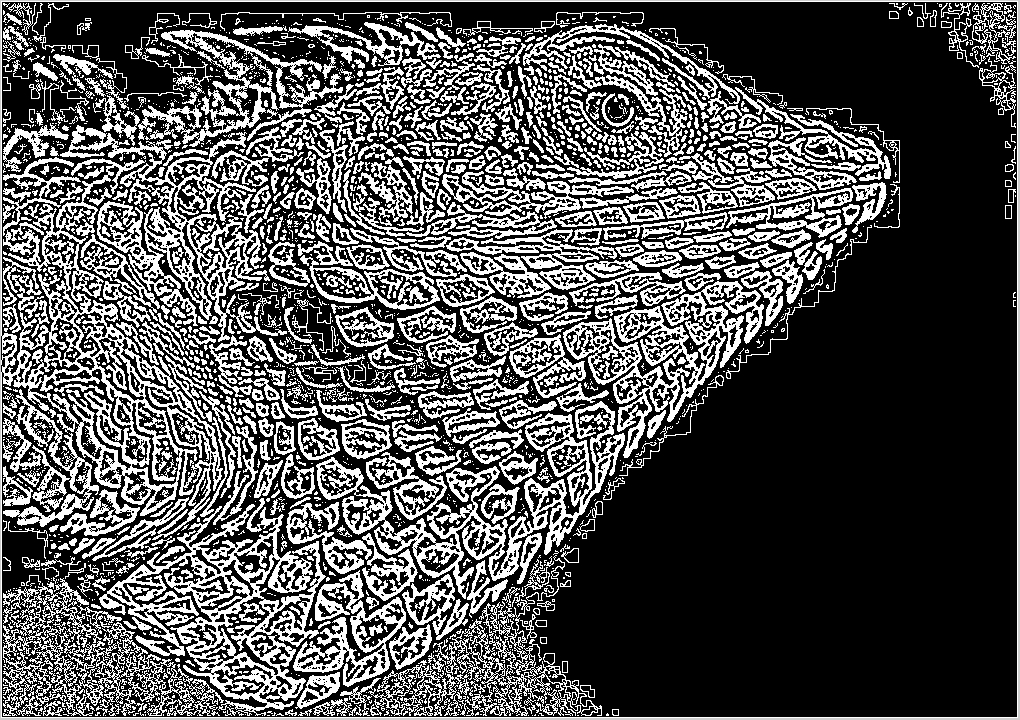
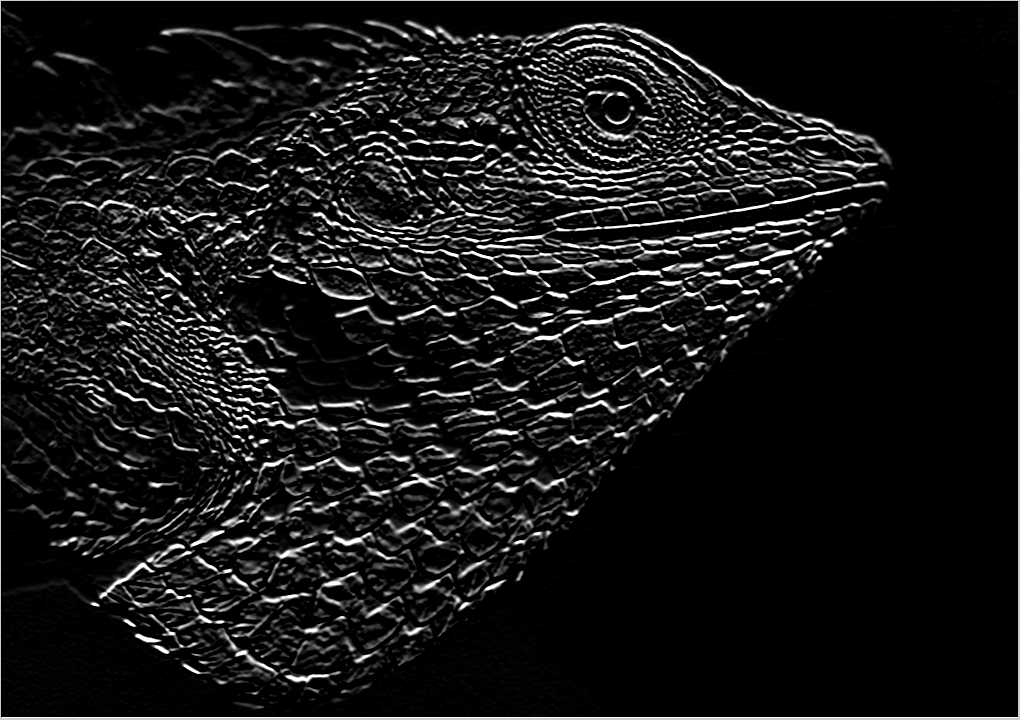
Working sobel operators

diff --git a/edge_detection_algorithms.h b/edge_detection_algorithms.h
@@ -5,23 +5,44 @@
 
 uint8_t calculate_mask(uint8_t** input, size_t x, size_t y, struct Mask mask) {
     mask.mask_radius = (size_t)(mask.mask_size / 2);
-    size_t sum = 0;
+    long long sum = 0;
+    
+    
+    //printf("%d %d image\n", x, y);
+    for (size_t i = y - mask.mask_radius; i <= y + mask.mask_radius; ++i) {
+        for (size_t j = x - mask.mask_radius; j <= x + mask.mask_radius; ++j) {
+            //printf("%d ", input[i][j]);
+        }
+        //printf("\n");
+    }
 
+    //printf("values\n");
     for (size_t i = y - mask.mask_radius; i <= y + mask.mask_radius; ++i) {
         for (size_t j = x - mask.mask_radius; j <= x + mask.mask_radius; ++j) {
 
             uint8_t image_val = input[i][j];
-
+            
             int mask_val = mask.mask[i - y + mask.mask_radius][j - x + mask.mask_radius];
 
             sum += (long long)image_val * mask_val;
-        }
-    }
 
-    sum /= 400;
+            //printf("%d ", (long long)image_val * mask_val);
+        }
+        //printf("\n");
+    }
+    //printf("suma %d\n", sum);
+    //printf("uint8 %d\n", (uint8_t) sum);
+
+    //printf("\n");
+
+    //sum /= 1200.0;
 
     if (sum < 0) sum = 0;
     if (sum > 255) sum = 255;
+    //printf("suma %d\n", sum);
+    //printf("uint8 %d\n", (uint8_t)sum);
+    //printf("\n");
+
     return (uint8_t)sum;
 }
 
@@ -70,14 +91,16 @@ void gaussian_blur(struct ImageMatrix* mat) {
     struct Masks mo = create_masks();
     struct Mask mask = mo.masks[0];
 
+
+
     if (mat->width > 0 && mat->height > 0) {
         uint8_t** gaussian_blur = malloc(mat->height * sizeof(*gaussian_blur));
         for (size_t i = 0; i < mat->height; i++) {
             gaussian_blur[i] = malloc(mat->width * sizeof(gaussian_blur[0]));
         }
 
-        for (size_t i = mask.mask_radius; i < mat->height - mask.mask_radius - 1; i++) {
-            for (size_t j = mask.mask_radius; j < mat->width - mask.mask_radius - 1; j++) {
+        for (size_t i = mask.mask_radius; i < mat->height - mask.mask_radius; ++i) {
+            for (size_t j = mask.mask_radius; j < mat->width - mask.mask_radius; ++j) {
 
                 uint8_t pixel_value = calculate_gaussian_mask(mat->matrix, j, i, mask);
 
@@ -88,4 +111,65 @@ void gaussian_blur(struct ImageMatrix* mat) {
 
         mat->matrix = gaussian_blur;
     }
+}
+
+void sobel_horizontal(struct ImageMatrix* mat) {
+    struct Masks mo = create_masks();
+    struct Mask mask = mo.masks[2];
+
+    uint8_t** gradient_strength = malloc(mat->height * sizeof(*gradient_strength));
+    for (size_t i = 0; i < mat->height; i++) {
+        gradient_strength[i] = malloc(mat->width * sizeof(gradient_strength[0]));
+    }
+
+    for (size_t i = mask.mask_radius; i < mat->height - mask.mask_radius - 1; i++) {
+        for (size_t j = mask.mask_radius; j < mat->width - mask.mask_radius - 1; j++) {
+
+            uint8_t pixel_value = calculate_mask(mat->matrix, j, i, mask);
+
+            gradient_strength[i][j] = pixel_value;
+
+        }
+    }
+
+    mat->matrix = gradient_strength;
+}
+
+void sobel_vertical(struct ImageMatrix* mat) {
+    struct Masks mo = create_masks();
+    struct Mask mask = mo.masks[1];
+
+    uint8_t** gradient_strength = malloc(mat->height * sizeof(*gradient_strength));
+    for (size_t i = 0; i < mat->height; i++) {
+        gradient_strength[i] = malloc(mat->width * sizeof(gradient_strength[0]));
+    }
+
+    for (size_t i = mask.mask_radius; i < mat->height - mask.mask_radius - 1; i++) {
+        for (size_t j = mask.mask_radius; j < mat->width - mask.mask_radius - 1; j++) {
+
+            uint8_t pixel_value = calculate_mask(mat->matrix, j, i, mask);
+
+            gradient_strength[i][j] = pixel_value;
+
+        }
+    }
+
+    mat->matrix = gradient_strength;
+}
+
+void detect_edges(struct ImageMatrix* mat) {
+
+    uint8_t** output = malloc(mat->height * sizeof(*output));
+    for (size_t i = 0; i < mat->height; i++) {
+        output[i] = malloc(mat->width * sizeof(output[0]));
+    }
+
+    struct ImageMatrix gradient_vertical = copy_matrix(mat);
+    struct ImageMatrix gradient_horizontal = copy_matrix(mat);
+
+    sobel_vertical(&gradient_vertical);
+    sobel_horizontal(&gradient_horizontal);
+
+    
+
 }

diff --git a/edge_detection_auxiliary.h b/edge_detection_auxiliary.h
@@ -108,6 +108,24 @@ struct ImageArray copy_image(struct ImageArray* image) {
     return output_image;
 }
 
+struct ImageMatrix copy_matrix(struct ImageMatrix* mat) {
+    uint8_t** output = malloc(mat->height * sizeof(*output));
+    for (size_t i = 0; i < mat->height; i++) {
+        output[i] = malloc(mat->width * sizeof(output[0]));
+    }
+
+    for (size_t i = 0; i < mat->height; ++i) {
+        for (size_t j = 0; j < mat->width; ++j) {
+            output[i][j] = mat->matrix[i][j];
+        }
+    }
+
+    struct ImageMatrix out;
+    out.matrix = output;
+    out.width = mat->width;
+    out.height = mat->height;
+    return out;
+}
 
 
 
@@ -178,7 +196,7 @@ uint8_t* matrix_to_image(struct ImageMatrix* mat) {
 
 
 // not working yet
-void copy_image_outward(struct ImageMatrix* mat) {
+struct ImageMatrix copy_image_outward(struct ImageMatrix* mat) {
     size_t temp_height = mat->height + 1;
     size_t temp_width = mat->width + 1;
 
@@ -187,5 +205,28 @@ void copy_image_outward(struct ImageMatrix* mat) {
         temp[i] = malloc(temp_width * sizeof(temp[0]));
     }
 
+    for (size_t i = 0; i < mat->width; ++i) { // gorny rzad
+        temp[0][i + 1] = mat->matrix[0][i];
+    }
+    for (size_t i = 0; i < mat->width; ++i) { //dolny rzad
+        temp[mat->height][i + 1] = mat->matrix[mat->height - 1][i];
+    }
 
+    for (size_t i = 0; i < mat->width; ++i) { // lewa strona
+        temp[i + 1][0] = mat->matrix[i][0];
+    }
+    for (size_t i = 0; i < mat->width; ++i) { // prawa strona
+        temp[i + 1][mat->width] = mat->matrix[i][mat->width - 1];
+    }
+
+    temp[0][0] = mat->matrix[0][0];                         // lewy gorny rog
+    temp[0][mat->width] = mat->matrix[0][mat->width - 1];   // prawy gorny rog
+    temp[mat->height][0] = mat->matrix[mat->height - 1][0]; // lewy dolny rog
+    temp[mat->height][mat->width] = mat->matrix[mat->height - 1][mat->width - 1]; // prawy dolny rog
+
+    struct ImageMatrix output;
+    output.matrix = temp;
+    output.height = temp_height;
+    output.width = temp_width;
+    return output;
 }

diff --git a/main.c b/main.c
@@ -17,8 +17,6 @@
 
 
 
-
-
 uint8_t non_maximum_suppression(uint8_t** gradient_strength, uint8_t** edge_angle, size_t x, size_t y) {
     uint8_t value = gradient_strength[y][x];
     struct Neighbours n = get_neighbours(gradient_strength, x, y);
@@ -270,7 +268,7 @@ int main() {
     gaussian_blur(&image_mat);
 
     struct Masks mo = create_masks();
-    struct Mask mask = mo.masks[4];
+    struct Mask mask = mo.masks[1];
 
     calculate_gradient_strength(&image_mat, mask);
 

diff --git a/edge_detection_masks.h b/edge_detection_masks.h
@@ -41,7 +41,6 @@ struct Masks create_masks() {
         write_to.masks[1].mask_radius = 1;
     }
 
-
     int** mask2 = malloc(3 * sizeof(*mask2));
     if (mask2) {
         for (size_t i = 0; i < 3; i++) {
